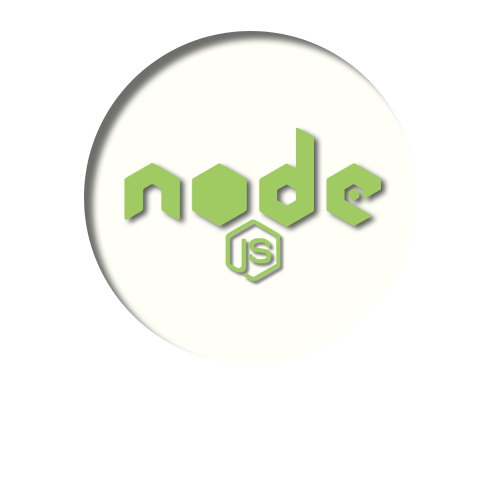
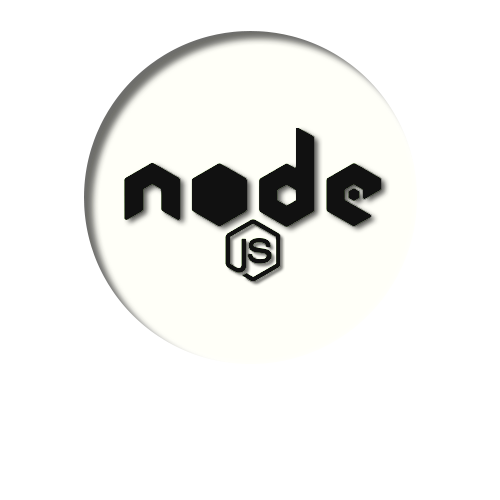
arreglos responsive pantalla minima

Changed region(s): [[0.24, 0.24, 0.78, 0.57]]

diff --git a/src/css/Projects.module.css b/src/css/Projects.module.css
@@ -1,5 +1,8 @@
 .container {
-    background-color: #810f28;
+    background-color: #181818;
+    background-image: url('../css/images/projectBack.jpg');
+    background-attachment: fixed;
+    
     height: 110vh;
     display: flex;
     justify-content: center;
@@ -19,7 +22,8 @@
 
 .card {
     position: relative;
-    background-color: #181818;
+    background-color: #ffffff;
+    border-radius: 32px;
     box-shadow: 5px 5px 5px 0px rgba(0,0,0,0.5);
 }
 
@@ -33,7 +37,8 @@
 
 .title{
     font-family: 'Louis George Cafe';
-    color: white;
+    color: rgb(0, 0, 0);
+    font-size: 15pt;
     margin-bottom: 10px;
     display: flex;
     justify-content: center;
@@ -45,7 +50,7 @@
 .text{
 
 margin-top: 5px;
-color: white;
+color: rgb(0, 0, 0);
 font-family: 'Louis George Cafe';
 font-weight: lighter;
 font-size: 15pt;
@@ -54,7 +59,8 @@ font-size: 15pt;
 .links{
     position: absolute;
     
-    background-color: rgba(0, 0, 0, 0.8);
+    background-color: rgba(0, 0, 0, 0.884);
+    border-radius: 0 32px 0 0 ;
     width: 70px;
     height: 130px;
     display: flex;
@@ -83,9 +89,10 @@ font-size: 15pt;
 }
 
 .video{
-   
-width: 500px;
+   border-radius:32px  32px 0 0;
+   width: 460px;
 }
+
 @media screen and (max-width: 1200px) {
  
     .video{
@@ -123,7 +130,9 @@ width: 500px;
 }
 
 @media screen and (max-width: 350px) {
- 
+ .container{
+    min-height: 160vh;
+ }
     .card{
          width: 70%;
          height: 90%;

diff --git a/src/css/Form.module.css b/src/css/Form.module.css
@@ -2,7 +2,7 @@
     display: flex;
     justify-content: center;
     align-items: center;
-    height: 100vh;
+    height: 110vh;
     user-select: none;
 }
 
@@ -232,7 +232,7 @@
     .formContent {
         flex-direction: column;
 
-        height: 80vh;
+        height: 70%;
 
 
     }
@@ -291,34 +291,54 @@
 }
 
 @media screen and (max-width: 350px) {
-
+  
+    .form{
+        height: 100%;
+        
+    }
+  
+   .left h1{
+    margin: 0;
+    font-size: 10pt;
+   }
     .social{
-        min-width: 150%;
+        min-width: 110%;
         display: flex;
         justify-content: space-around;
     }
     
     .left img {
-        height: 50px;
+        height: 40px;
 
     }
     .messageInput {
         width: 80%;
         height: 20%;
     }
+    .dataText{
+        display: flex;
+        flex-direction: column;
+        min-height: 210px;
+        align-items: center;
+        justify-content:space-between ;
+       
+    }
     .regInput{
+        margin: 0;
         width: 100%;
         flex-direction: column;
         align-items: center;
-        min-height: 15%;
+        min-height: 20%;
+      
     }
     
     .form input{
-       width: 50%;
+       width: 80%;
+       height: 20px;
 
     }
     .form label {
-        font-size: 10pt;
+        font-size: 5pt;
  
     }
     .formBtn{

diff --git a/src/css/Nav.module.css b/src/css/Nav.module.css
@@ -82,24 +82,13 @@ user-select:none;
 }
 
 
-.exitMenu{
-  color: aliceblue;
-  z-index: 1;
-  font-size: 30pt;
-  position: absolute;
-  top: 1rem;
-  right: 2rem;
-}
-.exitMenu:hover{
-  cursor: pointer;
-  user-select: none;
-}
+
 
   /* responsive */
 
   @media screen and (max-width: 970px) {
    .container{
-    height: 7vh;
+    height: 10vh;
    } 
    .links{
     width: 60%;
@@ -124,14 +113,14 @@ user-select:none;
   @media screen and (max-width: 767px) {
    .container{
     max-width: 100%;
-    z-index: 1;
+    z-index: 2;
    }
       
     .links{
    
       position:absolute;
       width: 100%;
-      height: 60vh;
+      height: 100vh;
       background-color: #292929e7;
       flex-direction: column;
       padding: 20px;
@@ -176,6 +165,10 @@ user-select:none;
 
    }
    @media screen and (max-width: 480px)  {
+    .container{
+      height: 11vh;
+    }
+  
     .menuBtn{
       width: 20%;
       
@@ -183,4 +176,5 @@ user-select:none;
     .menuBtn img {
       width: 50%;
     }
+  
    }

diff --git a/src/components/Form.jsx b/src/components/Form.jsx
@@ -36,6 +36,7 @@ export default function Form() {
             </div>
 
             <form className={style.form} id='contactForm' ref={useref} onSubmit={e=>handleSubmint(e)}>
+              <div className={style.dataText}>
               <div className={style.regInput}>
                 <label htmlFor="mail" >E-MAIL:</label>
                 <input type="text" id="mail" name='mail'/>
@@ -50,7 +51,7 @@ export default function Form() {
                 <label htmlFor="subject" >ASUNTO:</label>
                 <input type="text" id="subject" name='subject'/>
                </div>
-
+               </div>
                <div className={style.messageInput}>
                 <label htmlFor="message4" >MENSAJE:</label>
                 <textarea form="contactForm" type="text" id="message" name='message' />

diff --git a/src/css/Landing.module.css b/src/css/Landing.module.css
@@ -5,7 +5,7 @@
    ;
   
  }
-
+ @import url('https://fonts.googleapis.com/css2?family=Noto+Serif+Ahom&display=swap');
 .container{
     min-height: 100vh;
     width: 100%;
@@ -62,7 +62,7 @@
 p{
     user-select:none;
      
-    font-family: 'Cambria Math';
+    font-family: 'Noto Serif Ahom', serif;
     font-size: 40pt;
     color: white;
     position: absolute;
@@ -193,3 +193,19 @@ p{
         width: 80%;
     }
    }
+
+   @media screen and (max-width:350px) {
+    
+    .title{
+     text-align: center;
+     font-size: 30pt;
+    }
+    .title:hover{
+        letter-spacing: 2px;
+    }
+    p{
+        font-size: 20pt;
+        top: 20%;
+    }
+    
+    }

diff --git a/src/css/Stack.module.css b/src/css/Stack.module.css
@@ -1,5 +1,5 @@
 .container{
-    min-height: 30vh;
+    min-height: 40vh;
     width: 100vw;
     background-color: #810f28;
     display: flex;
@@ -23,7 +23,9 @@
   }
  }
 @media screen and (max-width:480px) {
-
+.ancla{
+    top: 270%;
+}
     .container{
         min-height: 60vh;
     }

diff --git a/src/components/Skills.jsx b/src/components/Skills.jsx
@@ -24,6 +24,7 @@ export default function SkillsCarousel(){
     return (
     <motion.div  ref={carousel} className={style.carousel} whileTap={'grabbing'}>
       <motion.div 
+      
        drag='x' 
        dragConstraints={{right:0,left:-width}}
        className={style.innerCarousel}>

diff --git a/src/css/About.module.css b/src/css/About.module.css
@@ -214,8 +214,14 @@
     }
    }
    @media screen and (max-width: 350px) {
+    .red{
+        min-height: 200vh;
+    }
     .container{
-        min-height: 150vh;
+        min-height: 200vh;
+    }
+    .card{
+        height: 300px;
     }
     .backText{
         line-height:15px

diff --git a/src/css/Contact.module.css b/src/css/Contact.module.css
@@ -2,8 +2,9 @@
     display: flex;
     width: 100%;
     flex-direction: column;
+    justify-content: center;
     background-color: rgb(24, 24, 24);
-    height: 100vh;
+    height: 120vh;
     color: white;
     
 }

diff --git a/src/css/Skills.module.css b/src/css/Skills.module.css
@@ -33,7 +33,7 @@ overflow: hidden;
 @media screen and (max-width: 480px) {
     .innerCarousel{
   
-        width: 400%;
+        width: 325%;
     }
 
   .image{
